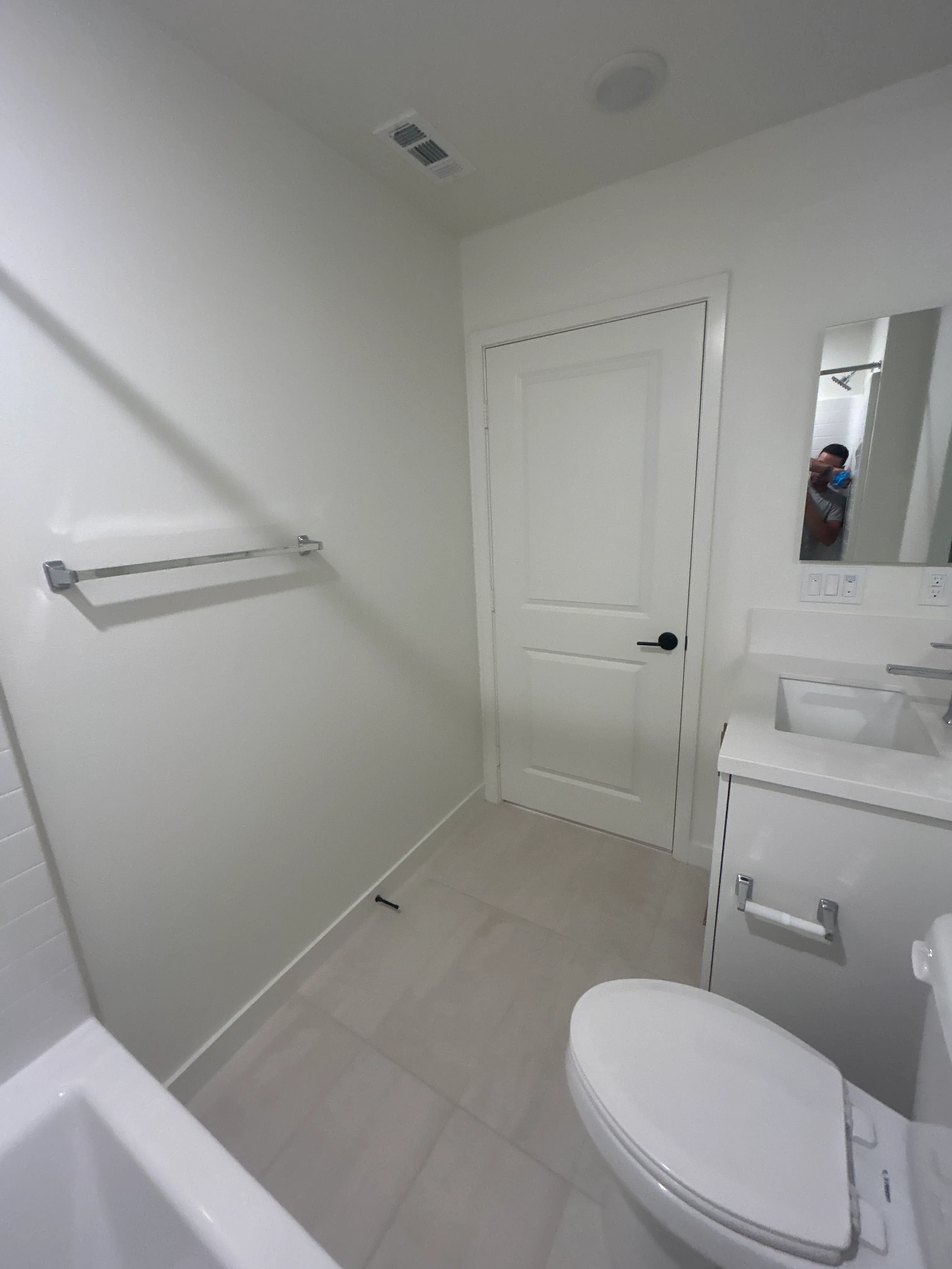
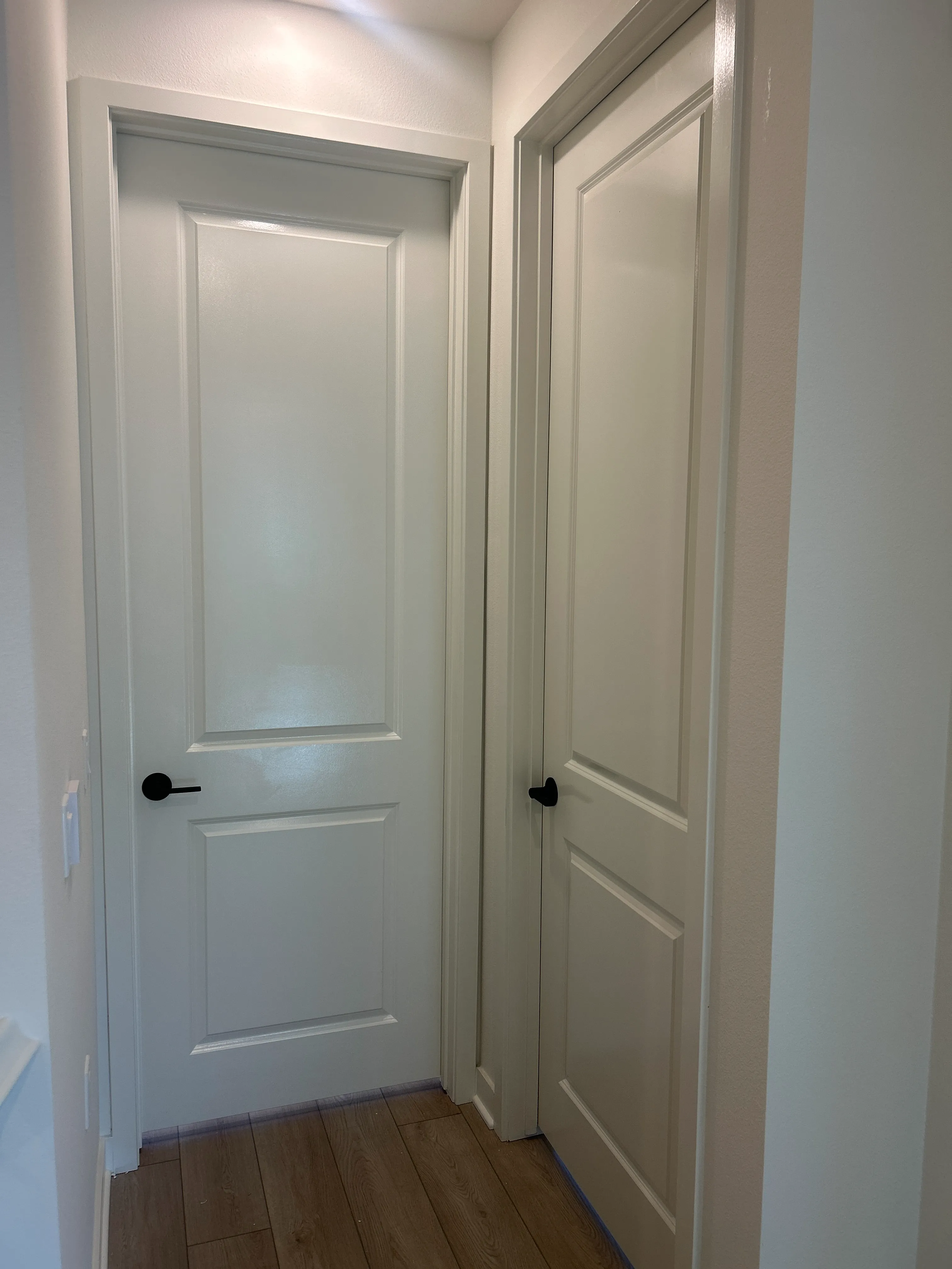
Update portfolio gallery

diff --git a/src/components/sections/Portfolio.tsx b/src/components/sections/Portfolio.tsx
@@ -1,9 +1,10 @@
-import { useState } from "react";
+import { useEffect, useRef, useState } from "react";
 import { motion } from "framer-motion";
 import { Images } from "lucide-react";
 import { SectionTitle } from "@/components/ui/SectionTitle";
 import {
   Carousel,
+  type CarouselApi,
   CarouselContent,
   CarouselItem,
   CarouselNext,
@@ -17,12 +18,30 @@ export function Portfolio() {
   const { t } = useI18n();
   const [activeProjectIndex, setActiveProjectIndex] = useState<number | null>(null);
   const [galleryOpen, setGalleryOpen] = useState(false);
+  const [carouselApi, setCarouselApi] = useState<CarouselApi>();
+  const [currentSlide, setCurrentSlide] = useState(0);
+  const galleryTriggerRef = useRef<HTMLButtonElement | null>(null);
 
   const activeProject = activeProjectIndex === null ? null : t.portfolio.items[activeProjectIndex];
   const activeGallery = activeProjectIndex === null ? null : portfolioGalleries[activeProjectIndex];
 
+  useEffect(() => {
+    if (!carouselApi) return;
+
+    const updateCurrentSlide = () => setCurrentSlide(carouselApi.selectedScrollSnap());
+    updateCurrentSlide();
+    carouselApi.on("select", updateCurrentSlide);
+    carouselApi.on("reInit", updateCurrentSlide);
+
+    return () => {
+      carouselApi.off("select", updateCurrentSlide);
+      carouselApi.off("reInit", updateCurrentSlide);
+    };
+  }, [carouselApi]);
+
   const openGallery = (index: number) => {
     setActiveProjectIndex(index);
+    setCurrentSlide(0);
     setGalleryOpen(true);
   };
 
@@ -35,36 +54,42 @@ export function Portfolio() {
           description={t.portfolio.description}
         />
 
-        <div className="mt-12 grid gap-6 md:grid-cols-2">
+        <div className="mt-12 grid items-stretch gap-6 md:grid-cols-2 lg:grid-cols-3">
           {t.portfolio.items.map((item, i) => (
             <motion.button
               key={item.title}
               type="button"
               aria-label={`${t.portfolio.openGallery}: ${item.title}`}
-              onClick={() => openGallery(i)}
+              onClick={(event) => {
+                galleryTriggerRef.current = event.currentTarget;
+                openGallery(i);
+              }}
               initial={{ opacity: 0, y: 24 }}
               whileInView={{ opacity: 1, y: 0 }}
               viewport={{ once: false, amount: 0.2 }}
               transition={{ duration: 0.5, delay: i * 0.08 }}
-              className="group overflow-hidden rounded-[28px] border border-slate-200 bg-white text-left shadow-sm transition-all duration-300 hover:-translate-y-1 hover:shadow-2xl focus-visible:outline-none focus-visible:ring-4 focus-visible:ring-slate-400/50 dark:border-white/10 dark:bg-white/[0.04] dark:focus-visible:ring-white/40"
+              className="group h-full cursor-pointer overflow-hidden rounded-2xl text-left shadow-md shadow-slate-900/10 transition-all duration-300 hover:-translate-y-1 hover:shadow-xl hover:shadow-slate-900/20 focus-visible:outline-none focus-visible:ring-4 focus-visible:ring-slate-400/40 dark:shadow-black/30 dark:hover:shadow-black/50 dark:focus-visible:ring-white/30 md:last:col-span-2 md:last:w-[calc(50%-0.75rem)] md:last:justify-self-center lg:last:col-span-1 lg:last:w-full"
             >
-              <div className="relative overflow-hidden">
+              <div className="relative h-[400px] overflow-hidden bg-slate-100 sm:h-[420px] dark:bg-slate-800">
                 <img
                   src={portfolioGalleries[i][0]}
                   alt={item.title}
                   loading="lazy"
-                  className="h-[260px] w-full object-cover transition-transform duration-700 ease-out group-hover:scale-105 sm:h-[320px]"
+                  className="h-full w-full object-cover transition-transform duration-300 ease-out group-hover:scale-[1.02]"
                 />
-                <div className="absolute inset-0 bg-gradient-to-t from-black/75 via-black/15 to-transparent transition-opacity duration-300 group-hover:from-black/85" />
-                <div className="absolute right-4 top-4 flex translate-y-1 items-center gap-2 rounded-full border border-white/25 bg-black/35 px-3 py-2 text-xs font-medium text-white opacity-0 backdrop-blur-md transition-all duration-300 group-hover:translate-y-0 group-hover:opacity-100 group-focus-visible:translate-y-0 group-focus-visible:opacity-100">
-                  <Images className="h-4 w-4" aria-hidden="true" />
-                  {t.portfolio.openGallery}
-                </div>
-                <div className="absolute bottom-0 left-0 right-0 p-6 transition-transform duration-300 group-hover:-translate-y-1">
-                  <div className="text-2xl font-semibold tracking-tight text-white">
-                    {item.title}
+                <div className="absolute inset-0 bg-gradient-to-t from-black/80 via-black/20 to-transparent" />
+
+                <div className="absolute inset-x-0 bottom-0 flex items-end justify-between gap-5 p-6">
+                  <div className="min-w-0 text-white drop-shadow-[0_1px_2px_rgba(0,0,0,0.7)]">
+                    <h3 className="text-xl font-semibold tracking-tight sm:text-2xl">
+                      {item.title}
+                    </h3>
+                    <p className="mt-2 text-sm leading-6 text-white/85">{item.subtitle}</p>
                   </div>
-                  <div className="mt-2 text-sm leading-7 text-white/80">{item.subtitle}</div>
+
+                  <span className="flex h-11 w-11 shrink-0 items-center justify-center rounded-full border border-white/30 bg-black/25 text-white backdrop-blur-sm transition-colors duration-200 group-hover:border-white group-hover:bg-white group-hover:text-slate-950">
+                    <Images className="h-4 w-4" aria-hidden="true" />
+                  </span>
                 </div>
               </div>
             </motion.button>
@@ -74,35 +99,70 @@ export function Portfolio() {
 
       <Dialog open={galleryOpen} onOpenChange={setGalleryOpen}>
         {activeProject && activeGallery && (
-          <DialogContent className="w-[calc(100%-1.5rem)] max-w-6xl gap-0 border-0 bg-transparent p-0 shadow-none sm:w-[calc(100%-3rem)] [&>button]:right-4 [&>button]:top-4 [&>button]:z-20 [&>button]:rounded-none [&>button]:bg-transparent [&>button]:p-0 [&>button]:text-white [&>button]:opacity-100 [&>button]:drop-shadow-[0_2px_4px_rgba(0,0,0,0.8)] [&>button]:ring-0 [&>button]:ring-offset-0 [&>button]:transition-all [&>button]:duration-200 [&>button:hover]:scale-110 [&>button:hover]:bg-transparent [&>button:hover]:opacity-75 [&>button:focus]:outline-none [&>button:focus]:ring-0 [&>button:focus]:ring-offset-0 [&>button:focus-visible]:outline-none [&>button:focus-visible]:ring-0 [&>button:focus-visible]:ring-offset-0 [&>button[data-state=open]]:bg-transparent [&>button>svg]:h-6 [&>button>svg]:w-6">
+          <DialogContent
+            onCloseAutoFocus={(event) => {
+              event.preventDefault();
+              galleryTriggerRef.current?.focus();
+            }}
+            className="w-[calc(100%-1rem)] max-w-5xl gap-0 overflow-hidden rounded-2xl border border-white/20 bg-transparent p-0 shadow-2xl sm:w-[calc(100%-2rem)] [&>button]:right-3 [&>button]:top-3 [&>button]:z-30 [&>button]:flex [&>button]:h-11 [&>button]:w-11 [&>button]:items-center [&>button]:justify-center [&>button]:rounded-full [&>button]:border [&>button]:border-white/25 [&>button]:bg-black/35 [&>button]:p-0 [&>button]:text-white [&>button]:opacity-100 [&>button]:shadow-md [&>button]:backdrop-blur-md [&>button]:transition-colors [&>button]:duration-200 [&>button:hover]:bg-black/55 [&>button:hover]:opacity-100 [&>button:focus-visible]:ring-2 [&>button:focus-visible]:ring-white [&>button:focus-visible]:ring-offset-2 [&>button:focus-visible]:ring-offset-slate-900 [&>button[data-state=open]]:bg-black/35 [&>button>svg]:h-5 [&>button>svg]:w-5"
+          >
             <DialogTitle className="sr-only">{activeProject.title}</DialogTitle>
             <DialogDescription className="sr-only">{activeProject.subtitle}</DialogDescription>
-
             <Carousel
               key={activeProjectIndex}
+              setApi={setCarouselApi}
               opts={{ loop: true }}
-              className="overflow-hidden rounded-[22px] shadow-2xl"
+              aria-label={`${activeProject.title} gallery`}
+              className="bg-black/15 backdrop-blur-sm"
             >
               <CarouselContent className="ml-0">
                 {activeGallery.map((image, imageIndex) => (
                   <CarouselItem key={image} className="pl-0">
-                    <img
-                      src={image}
-                      alt={`${activeProject.title} — ${t.portfolio.imageLabel} ${imageIndex + 1}`}
-                      className="h-[58vh] min-h-[280px] w-full object-cover sm:h-[68vh] sm:min-h-[420px]"
-                    />
+                    <div className="relative flex h-[56dvh] min-h-[240px] max-h-[680px] w-full items-center justify-center overflow-hidden sm:h-[68dvh]">
+                      <div
+                        aria-hidden="true"
+                        style={{ backgroundImage: `url("${image}")` }}
+                        className="absolute inset-0 scale-110 bg-cover bg-center opacity-35 blur-2xl"
+                      />
+                      <div
+                        className="absolute inset-0 bg-gradient-to-r from-black/45 via-black/10 to-black/45"
+                        aria-hidden="true"
+                      />
+                      <img
+                        src={image}
+                        alt={`${activeProject.title} — ${t.portfolio.imageLabel} ${imageIndex + 1}`}
+                        loading={imageIndex === 0 ? "eager" : "lazy"}
+                        decoding="async"
+                        className="relative z-10 h-full w-full object-contain"
+                      />
+                    </div>
                   </CarouselItem>
                 ))}
               </CarouselContent>
               <CarouselPrevious
                 aria-label="Previous image"
-                className="left-3 h-11 w-11 border-white/25 bg-black/50 text-white hover:bg-black/80 hover:text-white disabled:opacity-40 sm:left-5"
+                className="left-3 h-11 w-11 border-white/25 bg-black/35 text-white shadow-md backdrop-blur-md hover:bg-black/55 hover:text-white focus-visible:ring-2 focus-visible:ring-white disabled:opacity-40 sm:left-5 sm:h-12 sm:w-12"
               />
               <CarouselNext
                 aria-label="Next image"
-                className="right-3 h-11 w-11 border-white/25 bg-black/50 text-white hover:bg-black/80 hover:text-white disabled:opacity-40 sm:right-5"
+                className="right-3 h-11 w-11 border-white/25 bg-black/35 text-white shadow-md backdrop-blur-md hover:bg-black/55 hover:text-white focus-visible:ring-2 focus-visible:ring-white disabled:opacity-40 sm:right-5 sm:h-12 sm:w-12"
               />
             </Carousel>
+
+            <div className="flex min-h-16 items-center justify-between gap-4 border-t border-white/15 bg-slate-950/55 px-5 py-4 text-white backdrop-blur-xl">
+              <div className="min-w-0">
+                <p className="truncate text-sm font-semibold text-white sm:text-base">
+                  {activeProject.title}
+                </p>
+                <p className="mt-0.5 text-xs text-white/70">{t.portfolio.openGallery}</p>
+              </div>
+              <p
+                className="shrink-0 text-sm font-medium tabular-nums text-white/90"
+                aria-live="polite"
+              >
+                {currentSlide + 1} <span className="text-white/40">/</span> {activeGallery.length}
+              </p>
+            </div>
           </DialogContent>
         )}
       </Dialog>

diff --git a/src/data/content.ts b/src/data/content.ts
@@ -59,13 +59,6 @@ export const portfolioGalleries = [
     "/portfolio/production-residential/production-residential-12.webp",
     "/portfolio/production-residential/production-residential-13.webp",
     "/portfolio/production-residential/production-residential-14.webp",
-    "/portfolio/production-residential/production-residential-15.webp",
-  ],
-  [
-    "https://images.unsplash.com/photo-1448630360428-65456885c650?auto=format&fit=crop&w=1600&q=80",
-    "https://images.unsplash.com/photo-1600566753086-00f18fb6b3ea?auto=format&fit=crop&w=1600&q=80",
-    "https://images.unsplash.com/photo-1600566753051-f0b89df2dd90?auto=format&fit=crop&w=1600&q=80",
-    "https://images.unsplash.com/photo-1600566752355-35792bedcfea?auto=format&fit=crop&w=1600&q=80",
   ],
   [
     "/portfolio/model-decor.webp",
@@ -212,11 +205,6 @@ export const translations = {
           title: "Single Family",
           subtitle:
             "Scalable finish carpentry packages for tract and builder residential communities.",
-        },
-        {
-          title: "Hardware",
-          subtitle:
-            "Residential, multifamily, and light commercial hardware packages coordinated for reliable field performance and builder-ready installation.",
         },
         {
           title: "Model Decor / Finish Details",
@@ -443,7 +431,6 @@ export const translations = {
           title: "Residencial de Producción",
           subtitle: "Paquetes de acabados para multifamiliar y tract",
         },
-        { title: "Herrajes", subtitle: "Coordinación y suministro de herraje arquitectónico" },
         { title: "Residencial", subtitle: "Puertas, trim e instalación residencial premium" },
         {
           title: "Carpintería de Acabados",
